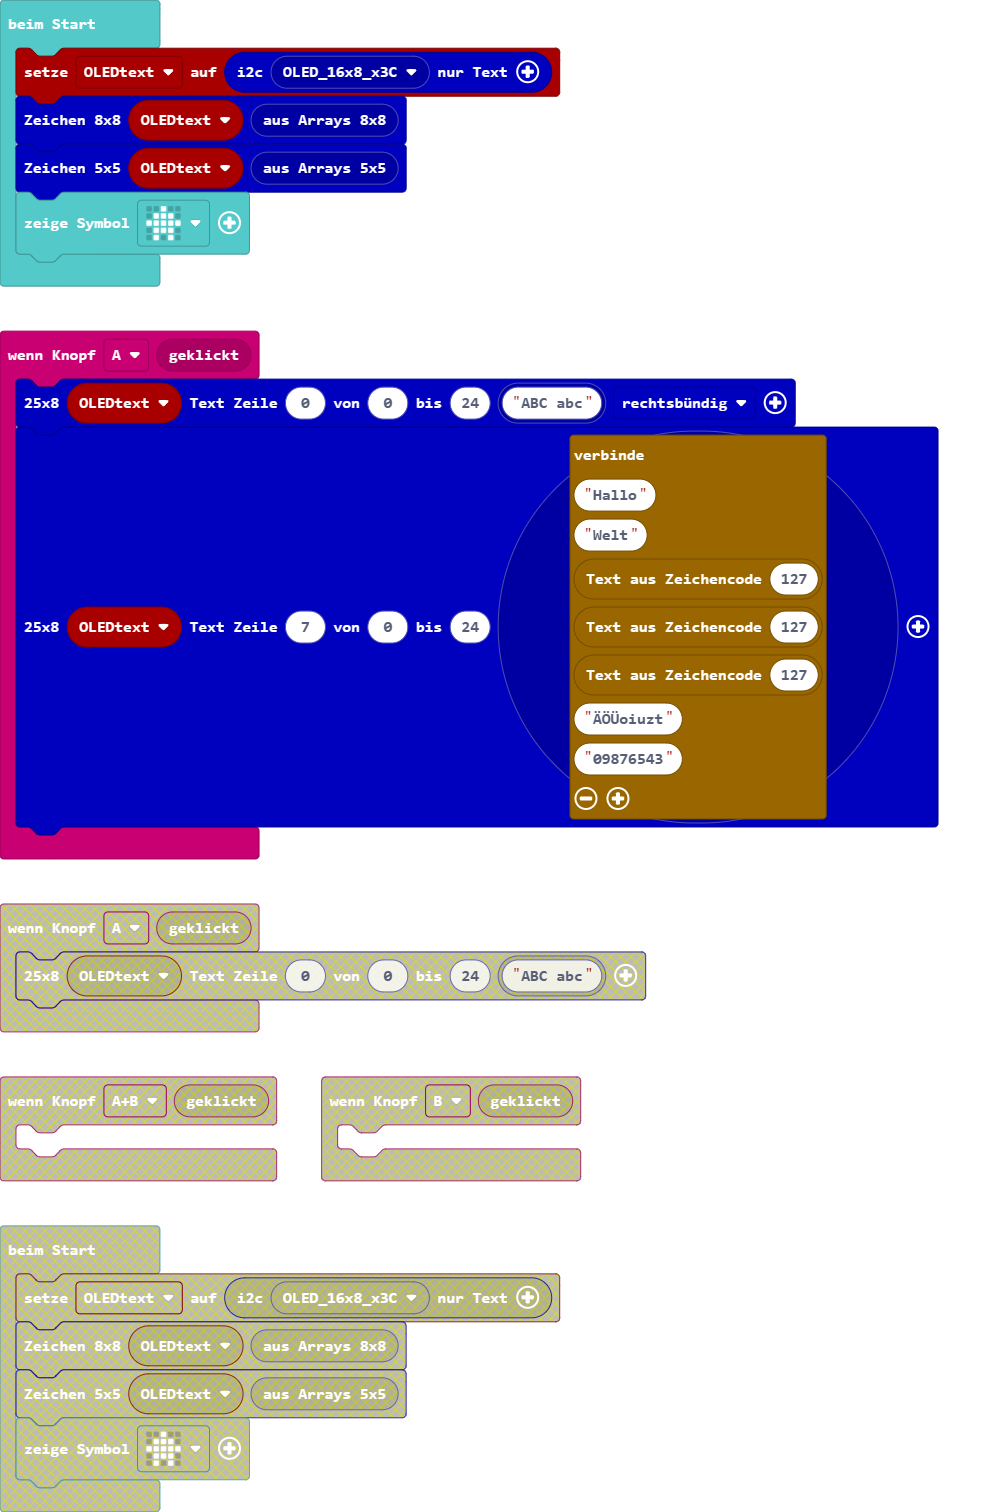
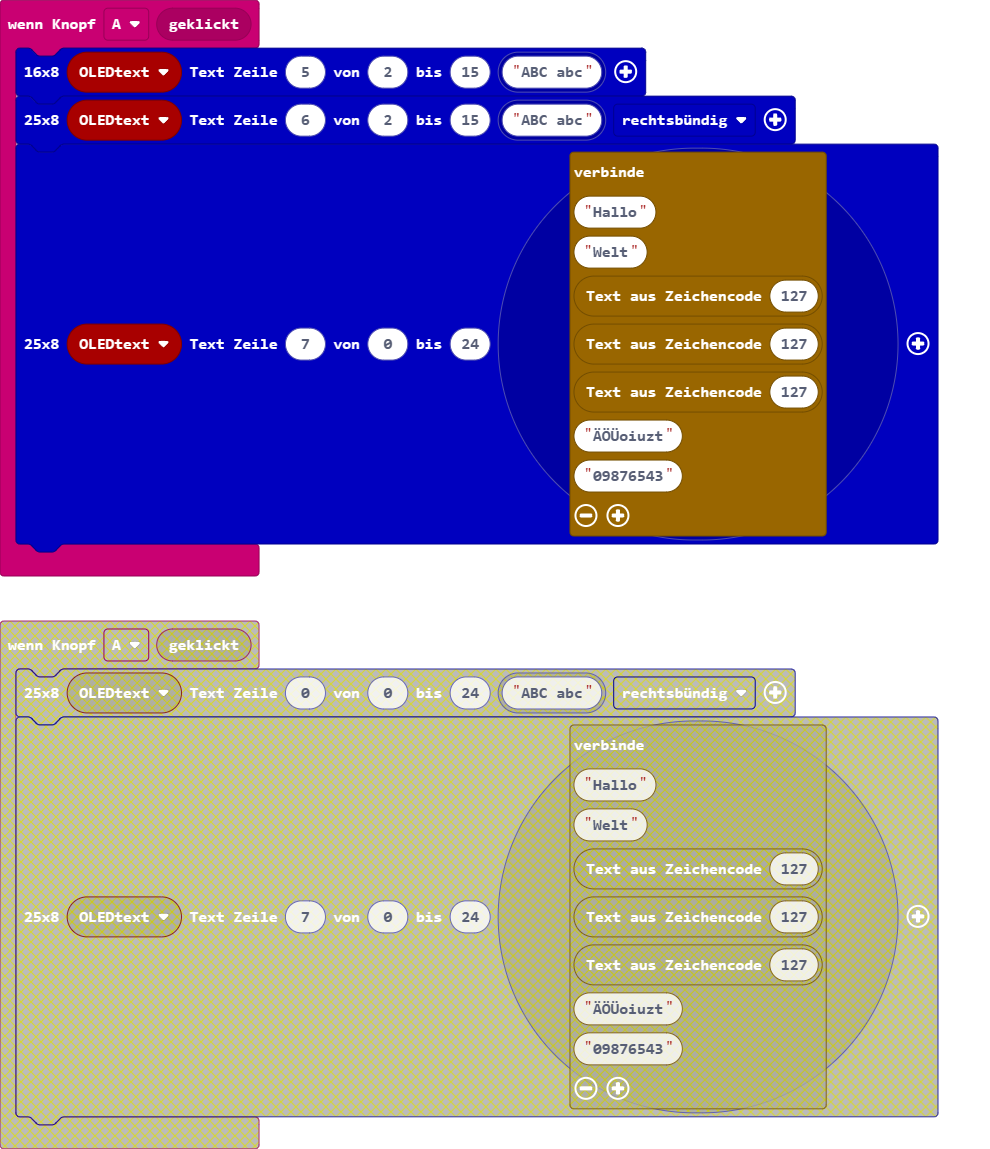
Aktualisiere pxt.json, main.blocks, main.ts, oledclass.ts, oledeeprom.ts

diff --git a/oledclass.ts b/oledclass.ts
@@ -199,7 +199,7 @@ Objektvariablen und Zeichensatz aus Arrays von calliope-net/oled-eeprom im Novem
 
 
         //% group="Display"
-        //% block="Zeichen %OLEDtext %pZeichenDrehen" weight=4
+        //% block="Zeichen 8x8 %OLEDtext %pZeichenDrehen" weight=4
         zeichenDrehen(pZeichenDrehen: eZeichenDrehen) { this.qZeichenDrehen = pZeichenDrehen }
 
         //% group="Display"
@@ -244,9 +244,9 @@ Objektvariablen und Zeichensatz aus Arrays von calliope-net/oled-eeprom im Novem
         set_oledarrays_5x5(p_5x5: oledarrays_5x5) { this.qOLEDArrays_5x5 = p_5x5 }
 
 
-        // ========== group="Zeichensatz einstellen (mit EEPROM)" subcategory="beim Start"
+        // ========== group="Blöcke nur verwenden, um EEPROM Adressen zu ändern" subcategory="beim Start"
 
-        //% group="Blöcke nur verwenden, um Standardwerte zu ändern" subcategory="beim Start"
+        //% group="Blöcke nur verwenden, um EEPROM Adressen zu ändern" subcategory="beim Start"
         //% block="Zeichen 8x8 %OLEDtext %pEEPROM_Startadresse_8x8 || i2c %pEEPROM_i2cADDR" weight=4
         //% pEEPROM_Startadresse_8x8.shadow=oled_eEEPROM_Startadresse
         //% pEEPROM_Startadresse_8x8.defl=oled.eEEPROM_Startadresse.F800
@@ -258,7 +258,7 @@ Objektvariablen und Zeichensatz aus Arrays von calliope-net/oled-eeprom im Novem
             //if (pEEPROM_i2cADDR != undefined) this.i2cADDR_EEPROM = pEEPROM_i2cADDR
         }
 
-        //% group="Blöcke nur verwenden, um Standardwerte zu ändern" subcategory="beim Start"
+        //% group="Blöcke nur verwenden, um EEPROM Adressen zu ändern" subcategory="beim Start"
         //% block="Zeichen 5x5 %OLEDtext %pEEPROM_Startadresse_5x5 || i2c %pEEPROM_i2cADDR" weight=2
         //% pEEPROM_Startadresse_5x5.shadow=oled_eEEPROM_Startadresse
         //% pEEPROM_Startadresse_5x5.defl=oled.eEEPROM_Startadresse.EC00

diff --git a/main.ts b/main.ts
@@ -1,5 +1,6 @@
 input.onButtonEvent(Button.A, input.buttonEventClick(), function () {
-    OLEDtext.writeText25x8(0, 0, 24, oled.oled_text("ABC abc"), oled.eAlign.rechts)
+    OLEDtext.writeText16x8(5, 2, 15, oled.oled_text("ABC abc"))
+    OLEDtext.writeText25x8(6, 2, 15, oled.oled_text("ABC abc"), oled.eAlign.rechts)
     OLEDtext.writeText25x8(7, 0, 24, oled.oled_text("Hallo" + "Welt" + String.fromCharCode(127) + String.fromCharCode(127) + String.fromCharCode(127) + "ÄÖÜoiuzt" + "09876543"))
 })
 let OLEDtext: oled.oledclass = null

diff --git a/oledeeprom.ts b/oledeeprom.ts
@@ -42,10 +42,6 @@ neu programmiert von Lutz Elßner im November 2023
 
 
         getPixel_8x8(pCharCode: number): Buffer {
-            //let bu = Buffer.create(2)
-            //bu.setNumber(NumberFormat.UInt16BE, 0, this.qEEPROM_Startadresse_8x8 + pCharCode * 8)
-            //this.i2cWriteBuffer(bu, true)
-            //return this.i2cReadBuffer(8)
             return this.read(this.qEEPROM_Startadresse_8x8 + pCharCode * 8, 8)
         }
 
